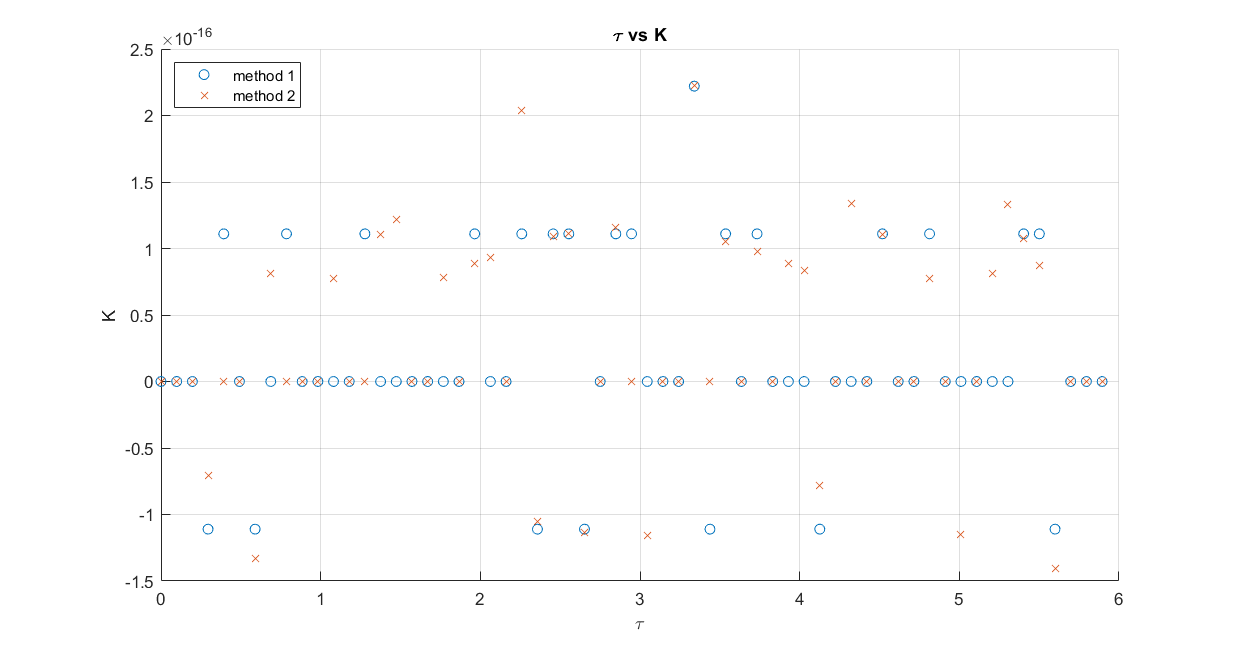
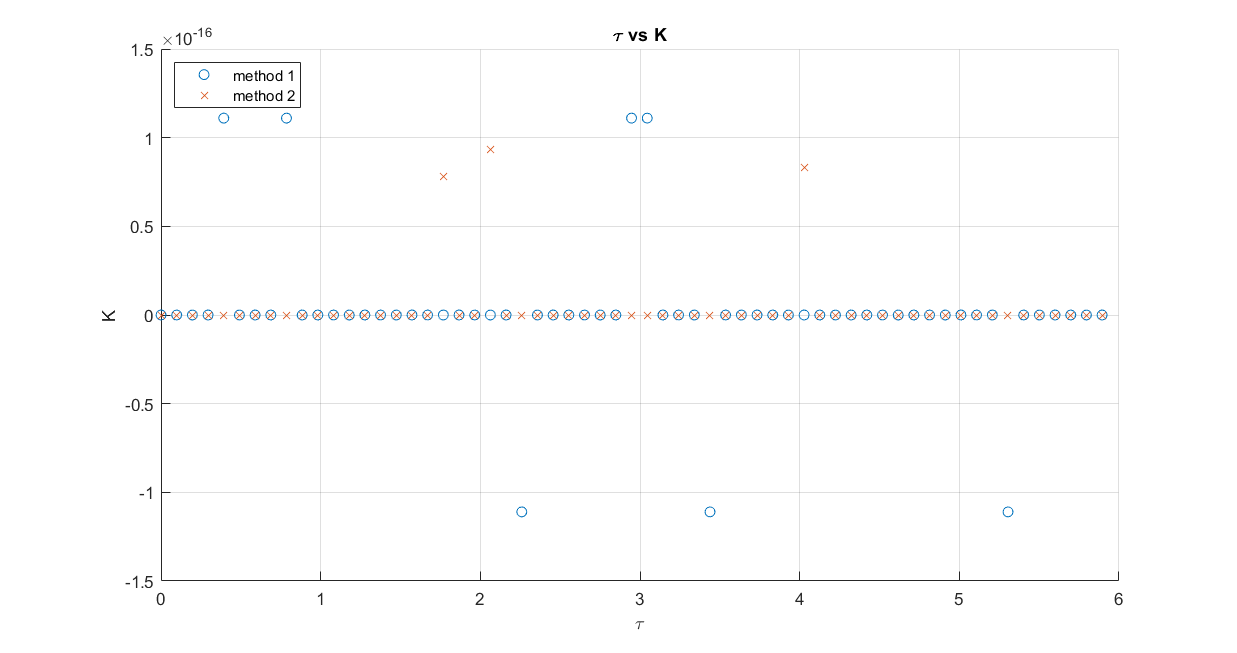
made K_check fn, now computing energy at every step instead of using initial and it's just better

diff --git a/HW1/HW1_part1_KS_formulation.m b/HW1/HW1_part1_KS_formulation.m
@@ -158,22 +158,7 @@ figure(3) ; hold on ; grid on ;
 % v: Compute the K numerical check at each step, and plot the results on a
 % single plot 
 
-K_A_hist = [] ; 
-K_B_hist = [] ; 
-for i = 1 : length(tau_hist) 
-    
-%     eps         = eps_hist(i,:) ; 
-    u           = u_hist(i,:) ; 
-    uprime      = uprime_hist(i,:) ; 
-    
-    K_A         = - eps/2 * dot(u,u) + dot(uprime, uprime) - mu/2 ;     
-    K_A_hist    = [ K_A_hist ; K_A ] ;     
-    
-    K2          = eps - 2 * dot( uprime,uprime ) / dot( u,u ) + mu / dot( u,u ) ; 
-    K_B         = - dot( u,u ) / 2 * K2 ; 
-    K_B_hist    = [ K_B_hist ; K_B ] ; 
-    
-end 
+[ K_A_hist, K_B_hist ] = K_check( state_hist, mu ) ; 
 
 figure(4) ; hold on ; grid on ; 
     scatter( tau_hist, K_A_hist ) ; 
@@ -202,18 +187,19 @@ disp([ rv_hist(1,:) - rv_hist(end,:) ]')
 
 clf 
 
-% options 
-tol     = 1e-14;         % 1e-14 accurate; 1e-6 coarse 
-options = odeset('reltol', tol, 'abstol', tol ); 
+%tol should very from 1e-17 fine to 1e-4 course (or 0.0 for fixed step
+tol = 0.0;         
 
 % 0 perturbation 
 a = zeros(4,1) ; 
 
+% steps 
+N = 60 ; 
+
 % Solve ODE 
 state0   = [ KS0 ; t0 ; eps ] ; 
 tau_span = [ 0 T_tau ] ; 
-% [tau_hist, state] = ode45(@(tau, KS_t_eps) KS_EOM( tau, KS_t_eps, a, mu), tau_span, state0, options) ; 
-[tau_hist, state] = ode78rpr(@(tau, KS_t_eps) KS_EOM( tau, KS_t_eps, a, mu), 0, T_tau, T_tau / 60, state0, 0.0) ; 
+[tau_hist, state] = ode78rpr(@(tau, KS_t_eps) KS_EOM( tau, KS_t_eps, a, mu), 0, T_tau, T_tau / N, state0, tol) ; 
 
 % extract 
 u_hist      = state(:, 1:4) ; 
@@ -222,7 +208,7 @@ t_hist      = state(:, 9) ;
 eps_hist    = state(:, 10) ; 
 
 % get Cartesian hist 
-rv_hist = [] 
+rv_hist = [] ; 
 for i = 1 : length(u_hist) 
     KS      = [ u_hist(i,:)' ; uprime_hist(i,:)' ] ; 
     rv      = KS2rv( KS )' ;    
@@ -233,15 +219,7 @@ end
 
 
 
-%% subfunctions 
 
-function KS_zero = KS_zero_fn( u0, uprime0, tau, eps ) 
-
-    KS_time = KS_time_fn( u0, uprime0, tau, eps ) ; 
-    t = KS_time(end) ; 
-
-
-end 
 
 
 

diff --git a/HW1/fns/K_check.m b/HW1/fns/K_check.m
@@ -1,0 +1,30 @@
+function [ K_A_hist, K_B_hist ] = K_check( state, mu )
+% Compute K at each step. State must contain u and uprime in columns 1-8 
+
+    % extract 
+    u_hist      = state(:, 1:4) ; 
+    uprime_hist = state(:, 5:8) ; 
+    
+    % energy 
+    K_A_hist = [] ; 
+    K_B_hist = [] ; 
+    for i = 1 : length(u_hist) 
+
+        u           = u_hist(i,:) ; 
+        uprime      = uprime_hist(i,:) ; 
+
+        % energy 
+        eps = 2 * dot( uprime,uprime ) / dot( u,u ) - mu / dot( u,u ) ; 
+
+        K_A         = - eps/2 * dot(u,u) + dot(uprime, uprime) - mu/2 ;     
+        K_A_hist    = [ K_A_hist ; K_A ] ;     
+
+        K2          = eps - 2 * dot( uprime,uprime ) / dot( u,u ) + mu / dot( u,u ) ; 
+        K_B         = - dot( u,u ) / 2 * K2 ; 
+        K_B_hist    = [ K_B_hist ; K_B ] ; 
+
+    end 
+
+end 
+
+
